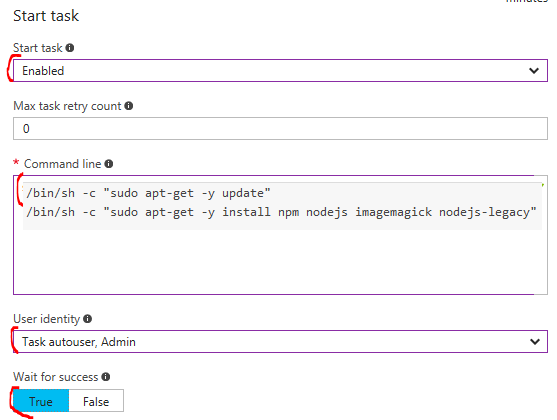
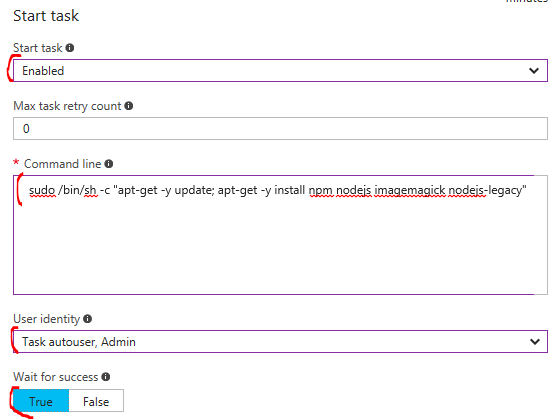
azbatch update

Changed region(s): [[0.0305, 0.4333, 0.9767, 0.5262]]

diff --git a/azbatch/README.md b/azbatch/README.md
@@ -38,16 +38,7 @@ Important is that we can utilize "Low priority nodes" - it means that we can use
     - Select Node Size to "A2"
     - Target dedicated nodes - "2", Low priority nodes "2"
     - Enable start task
-    - Start task command: 
-
-
-```
-/bin/sh -c "sudo apt-get -y update"
-/bin/sh -c "sudo apt-get -y install npm nodejs imagemagick nodejs-legacy"
-
-```
-
-- .
+    - Start task command: `sudo /bin/sh -c "apt-get -y update; apt-get -y install npm nodejs imagemagick nodejs-legacy"`
     - User identity: "Task autouser, Admin"
     - And switch "Wait for success" to True
     - ![img](img/img6.png "")
